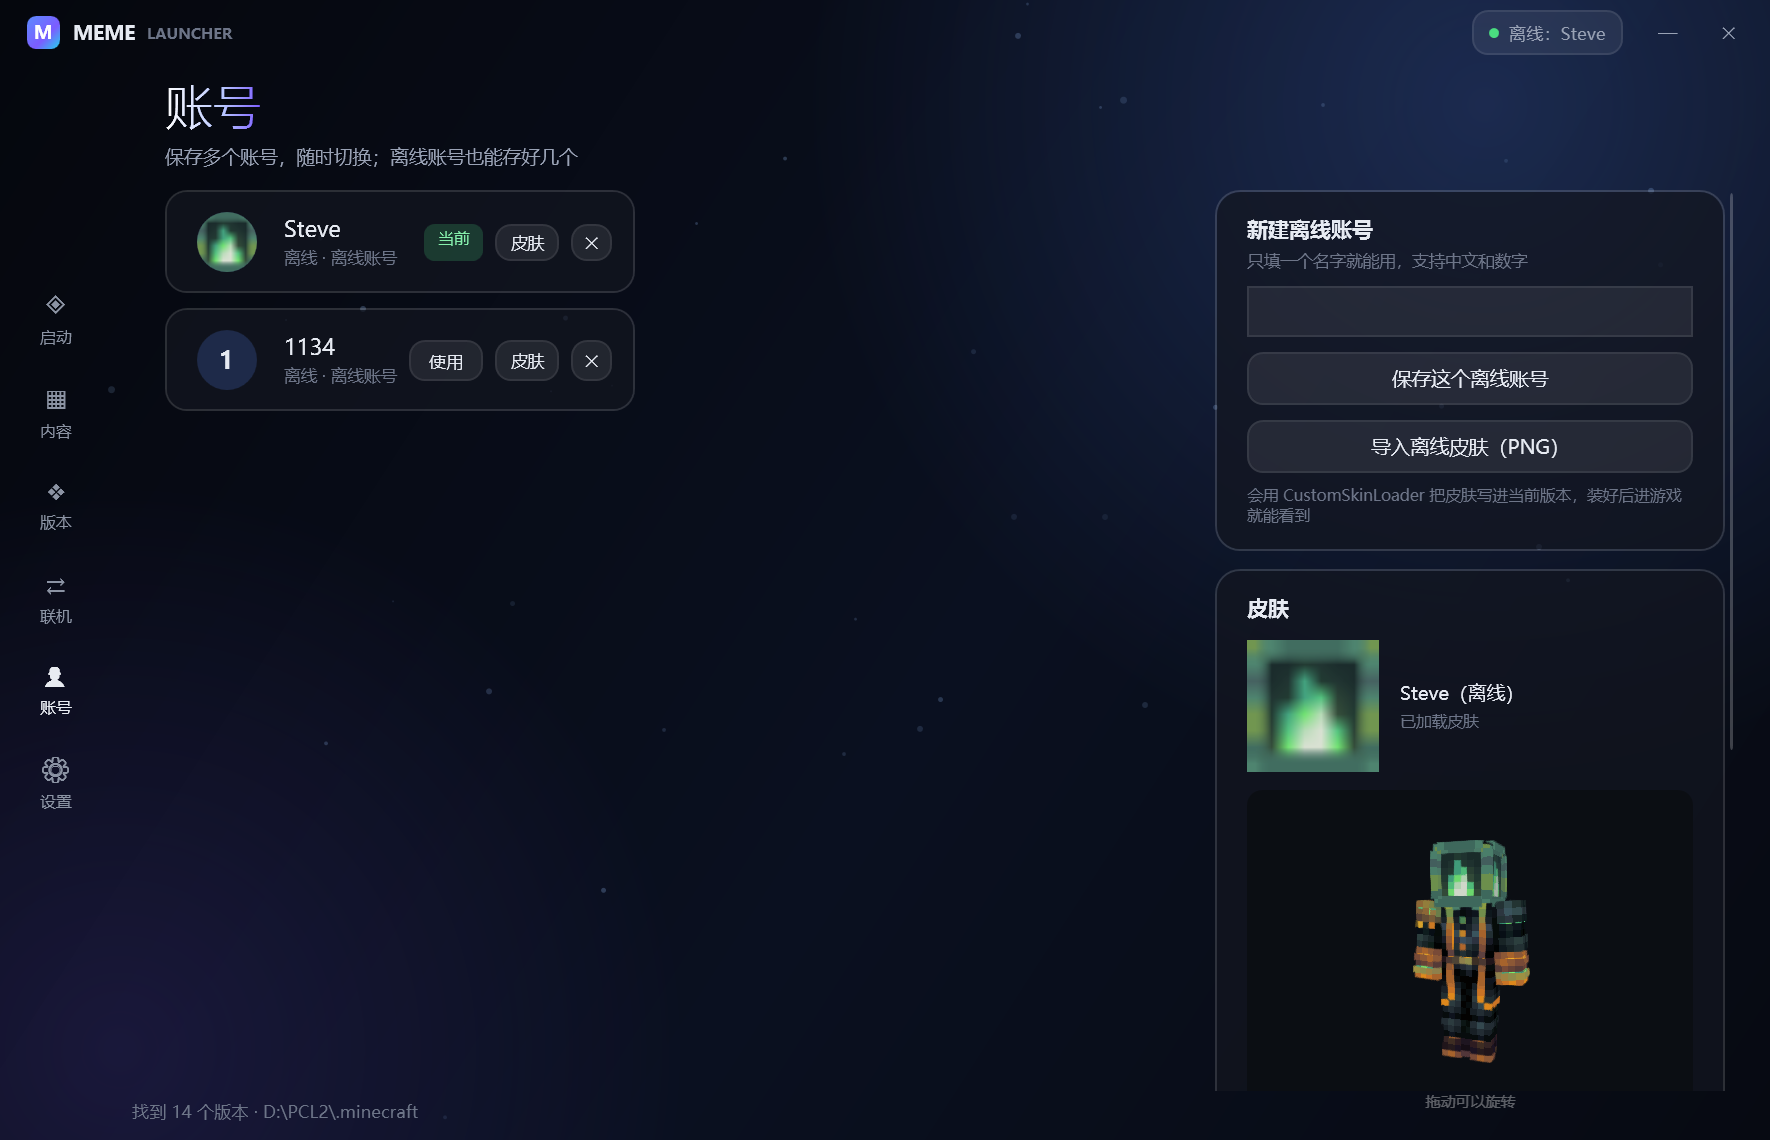
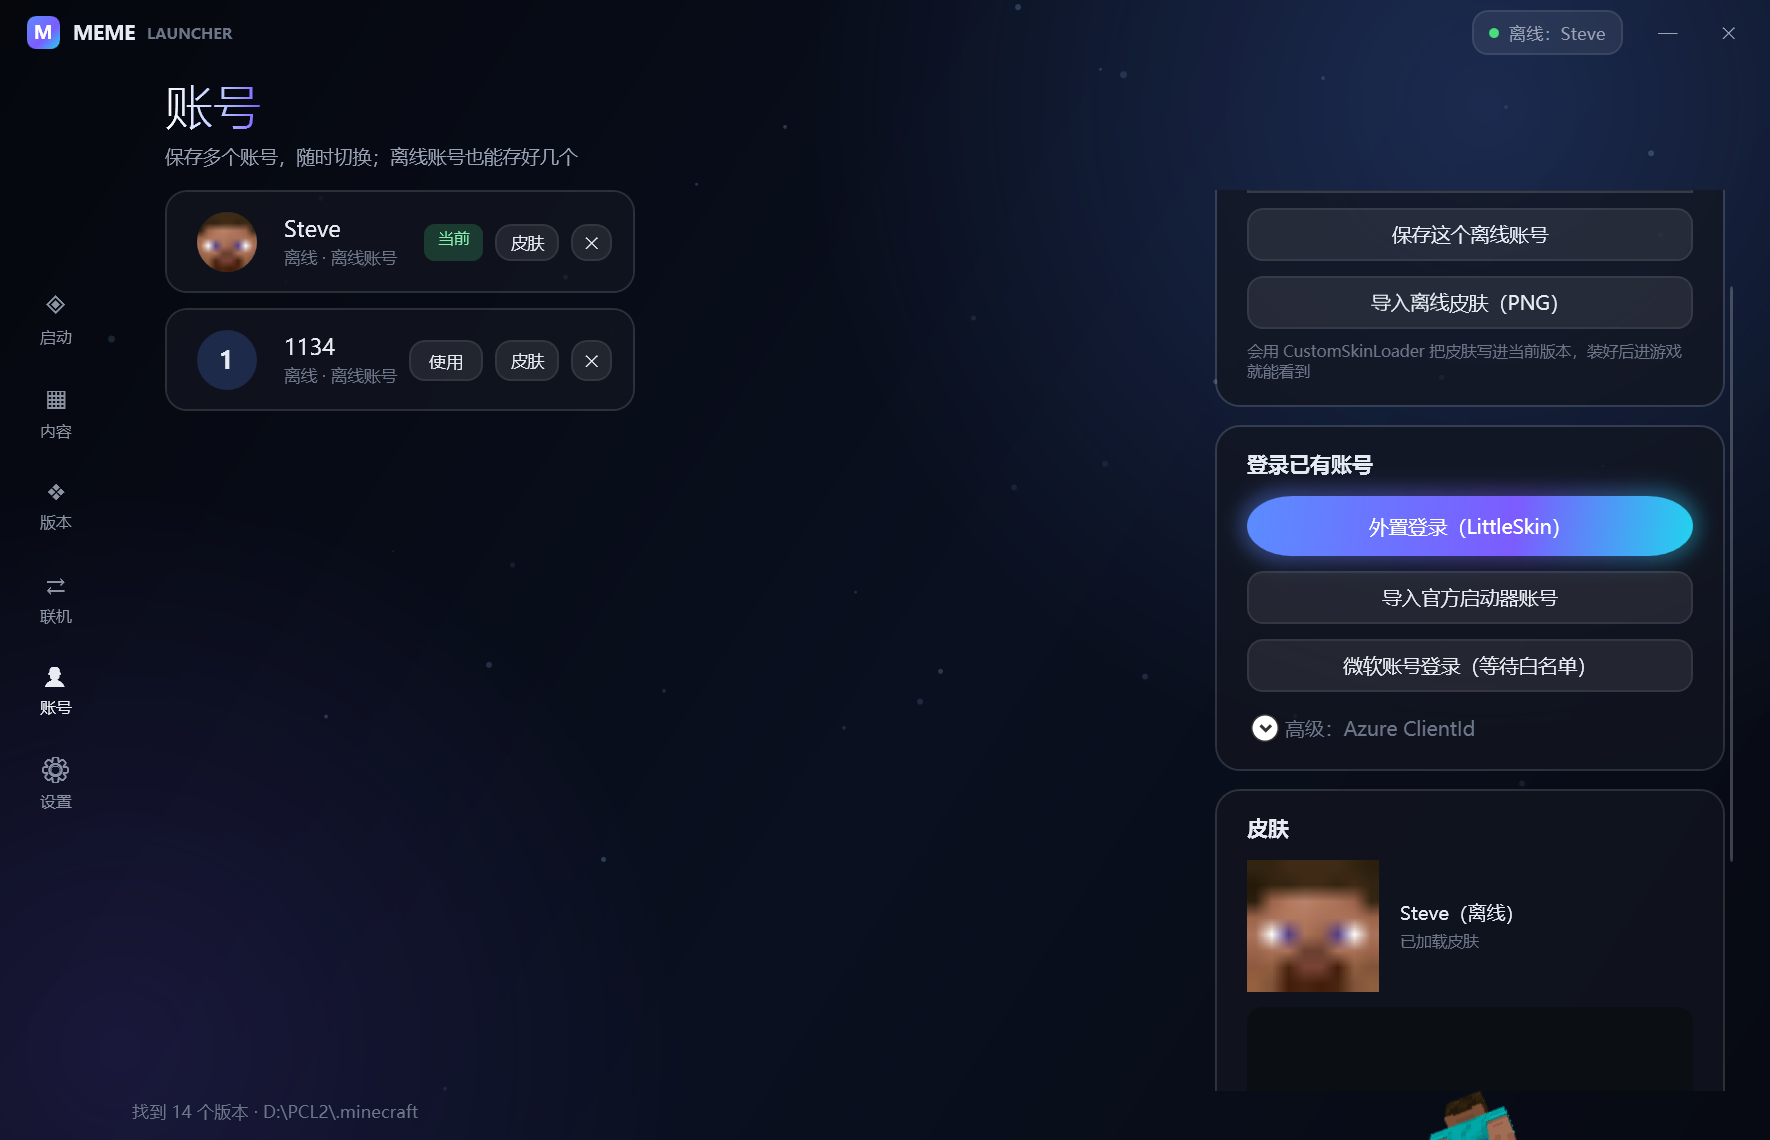
feat: viewer 资源内嵌（单文件 exe 可用）；头像最近邻放大；更新日志与失败提示

Changed region(s): [[0.6836, 0.1535, 0.9633, 1.0], [0.0932, 0.1842, 0.1554, 0.2456], [0.9633, 0.6754, 0.9944, 0.7061]]

diff --git a/src/Aurora.App/MainWindow.xaml b/src/Aurora.App/MainWindow.xaml
@@ -1311,8 +1311,8 @@
                                                 <ColumnDefinition Width="Auto"/>
                                                 <ColumnDefinition Width="*"/>
                                             </Grid.ColumnDefinitions>
-                                            <Border Width="88" Height="88" CornerRadius="16" Background="#1AFFFFFF">
-                                                <Image x:Name="AccountHeadImage" Stretch="UniformToFill"/>
+                                            <Border Width="88" Height="88" CornerRadius="16" Background="#1AFFFFFF" ClipToBounds="True">
+                                                <Image x:Name="AccountHeadImage" Stretch="UniformToFill" RenderOptions.BitmapScalingMode="NearestNeighbor"/>
                                             </Border>
                                             <StackPanel Grid.Column="1" Margin="14,0,0,0" VerticalAlignment="Center">
                                                 <TextBlock x:Name="AccountSkinName" Text="当前账号" FontSize="12.5"

diff --git a/src/Aurora.App/MainWindow.xaml.cs b/src/Aurora.App/MainWindow.xaml.cs
@@ -3446,7 +3446,7 @@ public partial class MainWindow : Window
                 }
             };
 
-            var page = Path.Combine(AppContext.BaseDirectory, "Assets", "skinview", "viewer.html");
+            var page = EnsureSkinViewerAssets();
             AccountSkinWeb.Source = new Uri(page);
             _skinWebReady = true;
 
@@ -3464,6 +3464,37 @@ public partial class MainWindow : Window
             // WebView2 不可用时静默降级（只显示头像）
             AccountSkinStatus.Text = "3D 预览不可用: " + ex.Message;
         }
+    }
+
+    /// <summary>把内嵌的 viewer.html / bundle 释放到本地目录，单文件 exe 也能用。</summary>
+    private static string EnsureSkinViewerAssets()
+    {
+        var dir = Path.Combine(
+            Environment.GetFolderPath(Environment.SpecialFolder.LocalApplicationData),
+            "MEMELauncher", "skinview");
+        Directory.CreateDirectory(dir);
+
+        foreach (var name in new[] { "viewer.html", "skinview3d.bundle.js" })
+        {
+            var target = Path.Combine(dir, name);
+            if (File.Exists(target) && new FileInfo(target).Length > 0)
+            {
+                continue;
+            }
+
+            var resource = "Aurora.App.Assets.skinview." + name;
+            using var stream = System.Reflection.Assembly.GetExecutingAssembly()
+                .GetManifestResourceStream(resource);
+            if (stream == null)
+            {
+                continue;
+            }
+
+            using var file = File.Create(target);
+            stream.CopyTo(file);
+        }
+
+        return Path.Combine(dir, "viewer.html");
     }
 
     private async Task ShowSkinInWeb(byte[]? bytes, byte[]? capeBytes = null)
@@ -3531,7 +3562,7 @@ public partial class MainWindow : Window
                         return;
             }
 
-            AccountHeadImage.Source = SkinImage.Head(bytes, 88);
+            AccountHeadImage.Source = SkinImage.Head(bytes, 176);
             _skinBitmap = SkinImage.FromBytes(bytes);
 
             byte[]? capeBytes = null;
